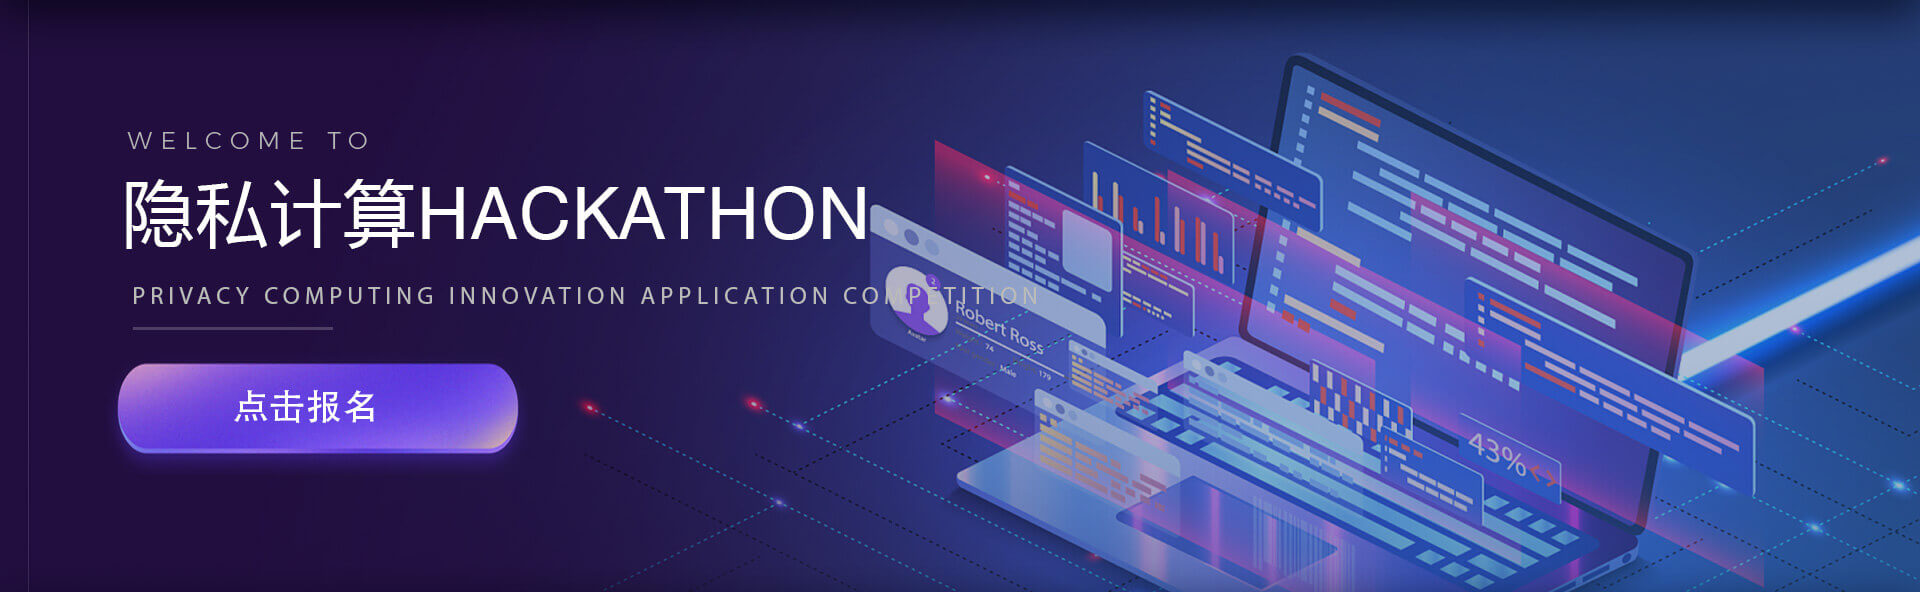
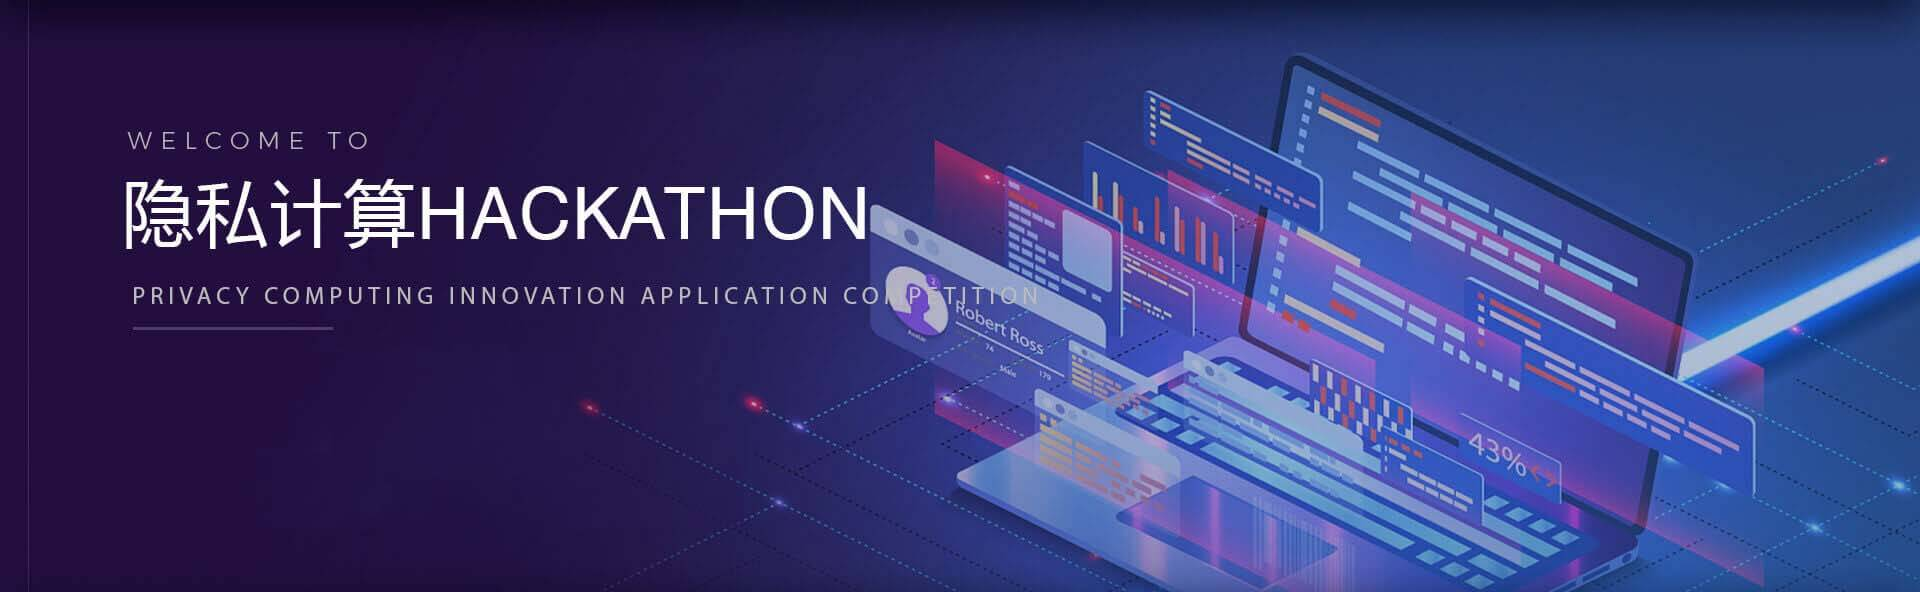
remove button

diff --git a/src/views/PcIndex.vue b/src/views/PcIndex.vue
@@ -3,7 +3,7 @@
     <NavBar />
     <div class="banner">
       <div class="container">
-        <div class="button" @click="signup"></div>
+        <!-- <div class="button" @click="signup"></div> -->
       </div>
     </div>
     <b-container>
